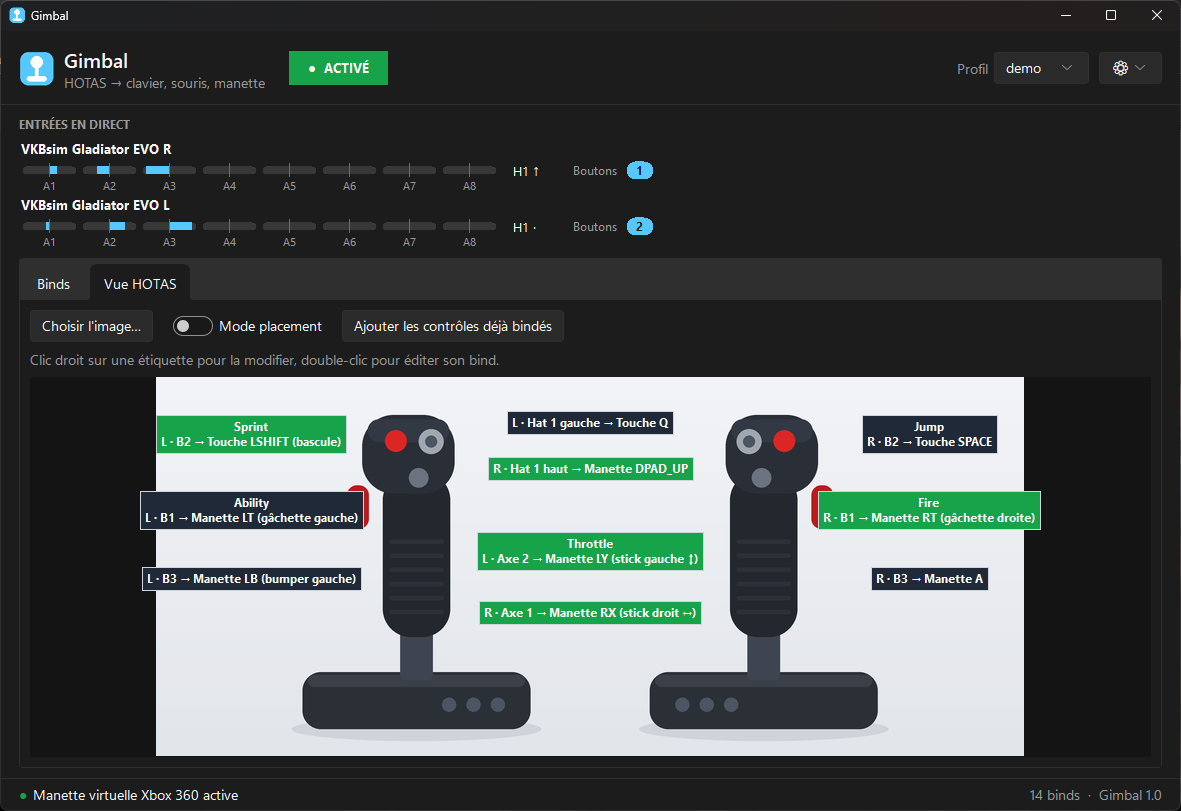
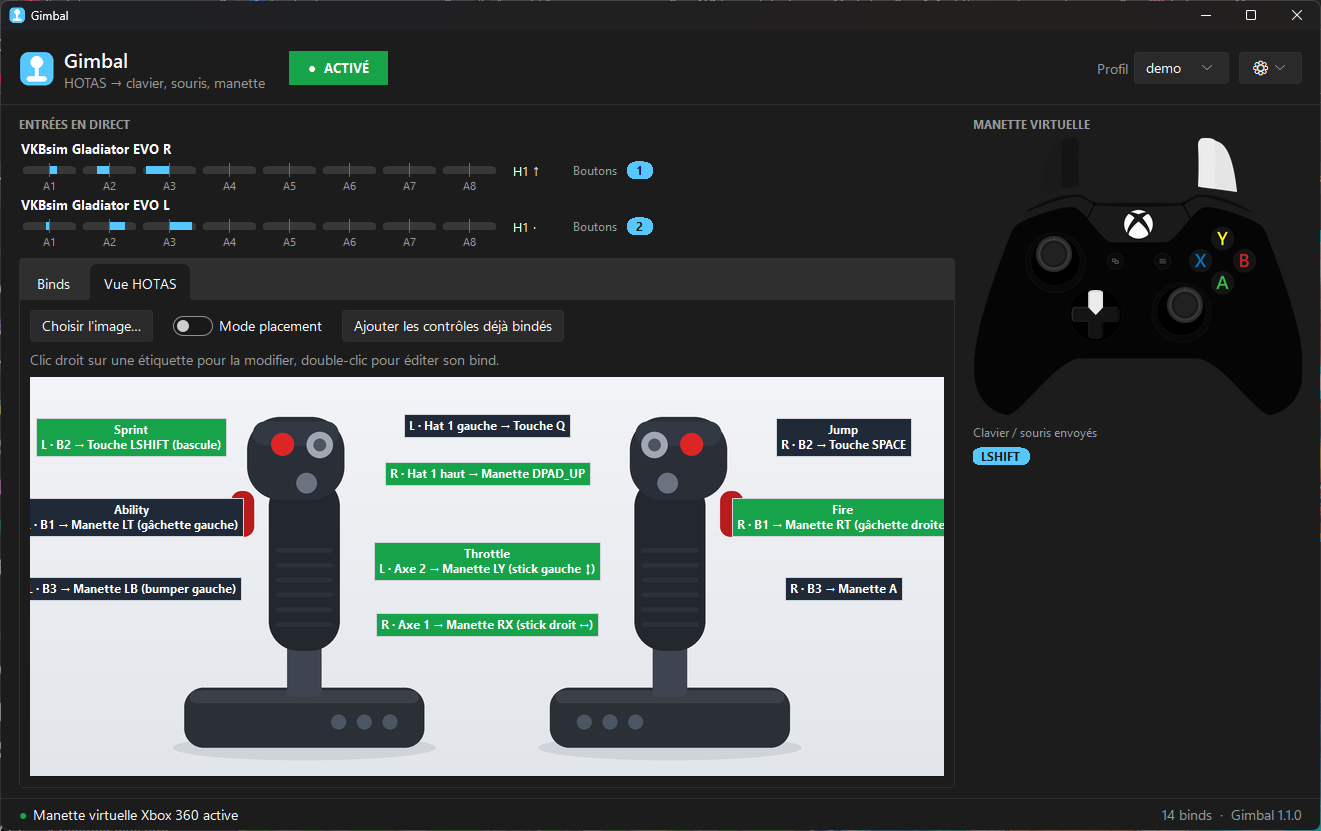
Gimbal 1.1.0: live virtual gamepad panel
- New panel on the main screen showing what the game receives: an Xbox
  controller (buttons, sticks, triggers) plus the keyboard/mouse keys sent
- Controller art from the Xbox One template of e7d/gamepad-viewer (MIT),
  rendered to PNG by tools/make_gamepad_assets.py
- Release build ships the controller images and no longer bundles numpy
- README screenshots and docs updated, version 1.1.0

diff --git a/tools/make_gamepad_assets.py b/tools/make_gamepad_assets.py
@@ -1,0 +1,70 @@
+"""Regenerate assets/gamepad/*.png from the Xbox One template of e7d/gamepad-viewer (MIT License).
+
+Usage, from the repository root:
+    py -m pip install pymupdf pillow
+    py tools/make_gamepad_assets.py
+
+The SVGs are downloaded from a pinned upstream commit, rendered at 2x, then cut into the
+same sprites the upstream CSS uses (background-position offsets, in CSS pixels).
+"""
+import urllib.request
+from io import BytesIO
+from pathlib import Path
+
+import pymupdf as fitz
+from PIL import Image
+
+REV = "563552931253a2e558cf6fd5fc7fd254eefd9b2f"
+URL = "https://raw.githubusercontent.com/e7d/gamepad-viewer/{rev}/templates/xbox-one/{name}.svg"
+LICENSE_URL = f"https://raw.githubusercontent.com/e7d/gamepad-viewer/{REV}/LICENSE"
+OUT = Path(__file__).resolve().parent.parent / "assets" / "gamepad"
+SCALE = 2
+
+# sprite: (svg, (x, y, width, height) in the SVG, None = whole image)
+SPRITES = {
+    "base_white": ("base-white", None),
+    "base_black": ("base-black", None),
+    "trigger": ("trigger", None),
+    "bumper": ("bumper", None),
+    "stick": ("stick", (85, 0, 83, 83)),
+    "stick_pressed": ("stick", (0, 0, 83, 83)),
+    "dpad_up": ("dpad", (35.66, 0, 34, 56)),
+    "dpad_down": ("dpad", (0, 0, 34, 56)),
+    "dpad_left": ("dpad", (0, 93, 56, 34)),
+    "dpad_right": ("dpad", (0, 57, 56, 34)),
+    "back": ("start-select", (0, 0, 33, 33)),
+    "start": ("start-select", (34.4, 0, 33, 33)),
+}
+for i, face in enumerate("abxy"):
+    SPRITES[f"button_{face}"] = ("buttons", (53 * i, 0, 53, 53))
+    SPRITES[f"button_{face}_pressed"] = ("buttons", (53 * i, 53, 53, 53))
+
+
+def render(name, cache={}):
+    if name not in cache:
+        svg = urllib.request.urlopen(URL.format(rev=REV, name=name)).read()
+        page = fitz.open(stream=svg, filetype="svg")[0]
+        pix = page.get_pixmap(matrix=fitz.Matrix(SCALE, SCALE), alpha=True)
+        cache[name] = Image.open(BytesIO(pix.tobytes("png"))).convert("RGBA")
+    return cache[name]
+
+
+def main():
+    OUT.mkdir(parents=True, exist_ok=True)
+    for sprite, (svg, rect) in SPRITES.items():
+        img = render(svg)
+        if rect:
+            x, y, w, h = (round(v * SCALE) for v in rect)
+            img = img.crop((x, y, x + w, y + h))
+        img.save(OUT / f"{sprite}.png", optimize=True)
+        print(f"{sprite}.png {img.size}")
+    license_text = urllib.request.urlopen(LICENSE_URL).read().decode("utf-8")
+    (OUT / "LICENSE").write_text(
+        "The images in this folder are derived from the Xbox One template of Gamepad Viewer\n"
+        f"(https://github.com/e7d/gamepad-viewer, commit {REV}),\n"
+        "rendered to PNG by tools/make_gamepad_assets.py. Original license:\n\n" + license_text,
+        encoding="utf-8")
+
+
+if __name__ == "__main__":
+    main()

diff --git a/tools/build_release.py b/tools/build_release.py
@@ -75,6 +75,8 @@ def main():
         "--icon", str(icon), "--version-file", str(version_file),
         "--collect-data", "sv_ttk",           # Sun Valley theme (.tcl + images)
         "--collect-binaries", "vgamepad",     # ViGEmClient.dll
+        "--exclude-module", "numpy",          # optionnel pour pygame/Pillow, inutile ici (~9 Mo)
+        "--exclude-module", "pymupdf",        # outil de make_gamepad_assets.py, pas de l'appli
         "--distpath", str(work / "dist"), "--workpath", str(work / "pyinstaller"), "--specpath", str(work),
     ], check=True)
 
@@ -83,6 +85,7 @@ def main():
         if (ROOT / name).exists():
             shutil.copy2(ROOT / name, app / name)
     shutil.copytree(ROOT / "profiles" / "examples", app / "profiles" / "examples")
+    shutil.copytree(ROOT / "assets", app / "assets")  # images de la manette virtuelle
 
     out.mkdir(parents=True, exist_ok=True)
     zip_path = out / f"{RELEASE_NAME}.zip"

diff --git a/README.fr.md b/README.fr.md
@@ -33,6 +33,7 @@ Joy2Key ou Joystick Gremlin savent aussi le faire, mais ils demandent un temps d
 - ⌨ **Sortie clavier et souris** : n'importe quelle touche, les boutons et la molette de la souris, et le mouvement de la souris depuis un axe. Les touches sont envoyées en scancodes, donc les jeux qui lisent les entrées brutes les acceptent.
 - 🎮 **Manette Xbox 360 virtuelle** : axes vers les sticks analogiques et les gâchettes, boutons vers A/B/X/Y, les bumpers ou la croix. Le jeu voit une vraie manette.
 - 🎚 **Options par bind** : inversion, zone morte, axe de manette des gaz (course complète), seuil pour utiliser un axe comme bouton, mode bascule, vitesse de la souris.
+- 👀 **Manette en direct** : une manette Xbox sur l'écran principal montre exactement ce que reçoit le jeu (boutons, sticks, gâchettes) et les touches envoyées. Pratique pour vérifier un bind, ou pour montrer tes commandes en stream.
 - 🖼 **Vue HOTAS** : charge une image de ton HOTAS, pose une étiquette sur chaque bouton physique et vois d'un coup d'œil ce que fait chaque commande. Les étiquettes s'allument quand tu actionnes le contrôle. Laisse-la sur un deuxième écran pendant que tu joues.
 - 💾 **Profils** : un fichier JSON par jeu, sauvegardé automatiquement.
 - 🌓 **Thème clair / sombre** (ou celui de Windows) et interface en **français / anglais**.
@@ -78,7 +79,7 @@ Double-clique ensuite sur **`gimbal.pyw`**. Les dépendances s'installent dans u
 3. Clique sur **Détecter**, puis appuie sur le bouton ou bouge l'axe que tu veux utiliser.
 4. Choisis un **Type de sortie** et une **Cible** : une touche (clique sur *Capturer une touche* et appuie dessus), un bouton ou un axe de manette, ou le mouvement de la souris.
 5. Clique sur **OK**. Le bind est actif tout de suite et enregistré dans le profil.
-6. Lance ton jeu. Quand un bind est utilisé, sa ligne passe en vert.
+6. Lance ton jeu. Quand un bind est utilisé, sa ligne passe en vert, et la colonne **Manette virtuelle**, à droite, montre ce que reçoit le jeu.
 
 Le gros bouton **ACTIVÉ / DÉSACTIVÉ** de l'en-tête met Gimbal en pause à tout moment. La pause relâche toutes les touches et débranche la manette virtuelle.
 
@@ -218,4 +219,4 @@ Rapports de bugs, idées et pull requests sont les bienvenus ! Pour les gros cha
 
 Gimbal est distribué sous [licence MIT](LICENSE).
 
-Il s'appuie sur ces projets : [pygame-ce](https://github.com/pygame-community/pygame-ce) (LGPL-2.1), [vgamepad](https://github.com/yannbouteiller/vgamepad) (MIT), [ViGEmBus](https://github.com/nefarius/ViGEmBus) (BSD-3-Clause), [Pillow](https://github.com/python-pillow/Pillow) (MIT-CMU) et le [thème Sun Valley](https://github.com/rdbende/Sun-Valley-ttk-theme) (MIT).
+Il s'appuie sur ces projets : [pygame-ce](https://github.com/pygame-community/pygame-ce) (LGPL-2.1), [vgamepad](https://github.com/yannbouteiller/vgamepad) (MIT), [ViGEmBus](https://github.com/nefarius/ViGEmBus) (BSD-3-Clause), [Pillow](https://github.com/python-pillow/Pillow) (MIT-CMU) et le [thème Sun Valley](https://github.com/rdbende/Sun-Valley-ttk-theme) (MIT). Les images de la manette virtuelle sont tirées du modèle Xbox One de [Gamepad Viewer](https://github.com/e7d/gamepad-viewer), par Michaël « e7d » Ferrand (MIT, voir [`assets/gamepad/LICENSE`](assets/gamepad/LICENSE)).

diff --git a/README.md b/README.md
@@ -33,6 +33,7 @@ Tools like Joy2Key or Joystick Gremlin can do this too, but they take a while to
 - ⌨ **Keyboard and mouse output**: any key, mouse buttons, mouse wheel, and mouse movement from an axis. Keys are sent as scancodes, so games that read raw input accept them.
 - 🎮 **Virtual Xbox 360 controller**: map axes to the analog sticks and triggers and buttons to A/B/X/Y, bumpers or the D-pad. The game sees a real gamepad.
 - 🎚 **Per-binding options**: invert, deadzone, throttle (full-range) axes, trigger threshold for using an axis as a button, toggle mode, mouse speed.
+- 👀 **Live gamepad view**: an Xbox controller on the main screen shows exactly what the game receives (buttons, sticks, triggers) and which keys are being sent. Great for checking a binding, or for showing your inputs on stream.
 - 🖼 **HOTAS view**: load a picture of your HOTAS, drop labels on each physical button, and see at a glance what everything does. Labels light up when you press the control. Keep it on a second screen while you play.
 - 💾 **Profiles**: one JSON file per game, saved automatically.
 - 🌓 **Light / dark theme** (or follow Windows) and **English / French** interface.
@@ -78,7 +79,7 @@ Then double-click **`gimbal.pyw`**. The dependencies go into a `libs` folder nex
 3. Click **Detect**, then press the button or move the axis you want to use.
 4. Choose an **Output type** and a **Target**: a key (click *Capture a key* and press it), a gamepad button or axis, or mouse movement.
 5. Click **OK**. Your binding is active right away and saved in the profile.
-6. Launch your game. While a binding is in use, its row turns green.
+6. Launch your game. While a binding is in use, its row turns green, and the **virtual gamepad** panel on the right shows what the game receives.
 
 Use the big **ENABLED / DISABLED** button in the header to pause Gimbal at any time. Pausing releases every key and unplugs the virtual controller.
 
@@ -218,4 +219,4 @@ Bug reports, ideas and pull requests are welcome! Please open an [issue](https:/
 
 Gimbal is released under the [MIT License](LICENSE).
 
-It relies on these projects: [pygame-ce](https://github.com/pygame-community/pygame-ce) (LGPL-2.1), [vgamepad](https://github.com/yannbouteiller/vgamepad) (MIT), [ViGEmBus](https://github.com/nefarius/ViGEmBus) (BSD-3-Clause), [Pillow](https://github.com/python-pillow/Pillow) (MIT-CMU) and [Sun Valley ttk theme](https://github.com/rdbende/Sun-Valley-ttk-theme) (MIT).
+It relies on these projects: [pygame-ce](https://github.com/pygame-community/pygame-ce) (LGPL-2.1), [vgamepad](https://github.com/yannbouteiller/vgamepad) (MIT), [ViGEmBus](https://github.com/nefarius/ViGEmBus) (BSD-3-Clause), [Pillow](https://github.com/python-pillow/Pillow) (MIT-CMU) and [Sun Valley ttk theme](https://github.com/rdbende/Sun-Valley-ttk-theme) (MIT). The virtual gamepad images are derived from the Xbox One template of [Gamepad Viewer](https://github.com/e7d/gamepad-viewer) by Michaël "e7d" Ferrand (MIT, see [`assets/gamepad/LICENSE`](assets/gamepad/LICENSE)).

diff --git a/CHANGELOG.md b/CHANGELOG.md
@@ -2,6 +2,15 @@
 
 All notable changes to Gimbal are listed here. Versions follow [Semantic Versioning](https://semver.org/).
 
+## [1.1.0] - 2026-10-29
+
+### Added
+- **Virtual gamepad panel** on the main screen: a live Xbox controller shows exactly what Gimbal sends to the game (buttons, sticks, triggers), plus the keyboard and mouse keys currently sent. Controller art from [Gamepad Viewer](https://github.com/e7d/gamepad-viewer) (MIT).
+- `tools/make_gamepad_assets.py` to regenerate the controller images.
+
+### Changed
+- The main window opens a bit wider to make room for the gamepad panel.
+
 ## [1.0.0] - 2026-10-29
 
 First public release.
@@ -13,4 +22,5 @@ First public release.
 - Light / dark / system theme, English and French interface.
 - Standalone Windows build (`Gimbal.exe`), no Python required.
 
+[1.1.0]: https://github.com/AbsoluteTheoG/GIMBAL/releases/tag/v1.1.0
 [1.0.0]: https://github.com/AbsoluteTheoG/GIMBAL/releases/tag/v1.0.0
